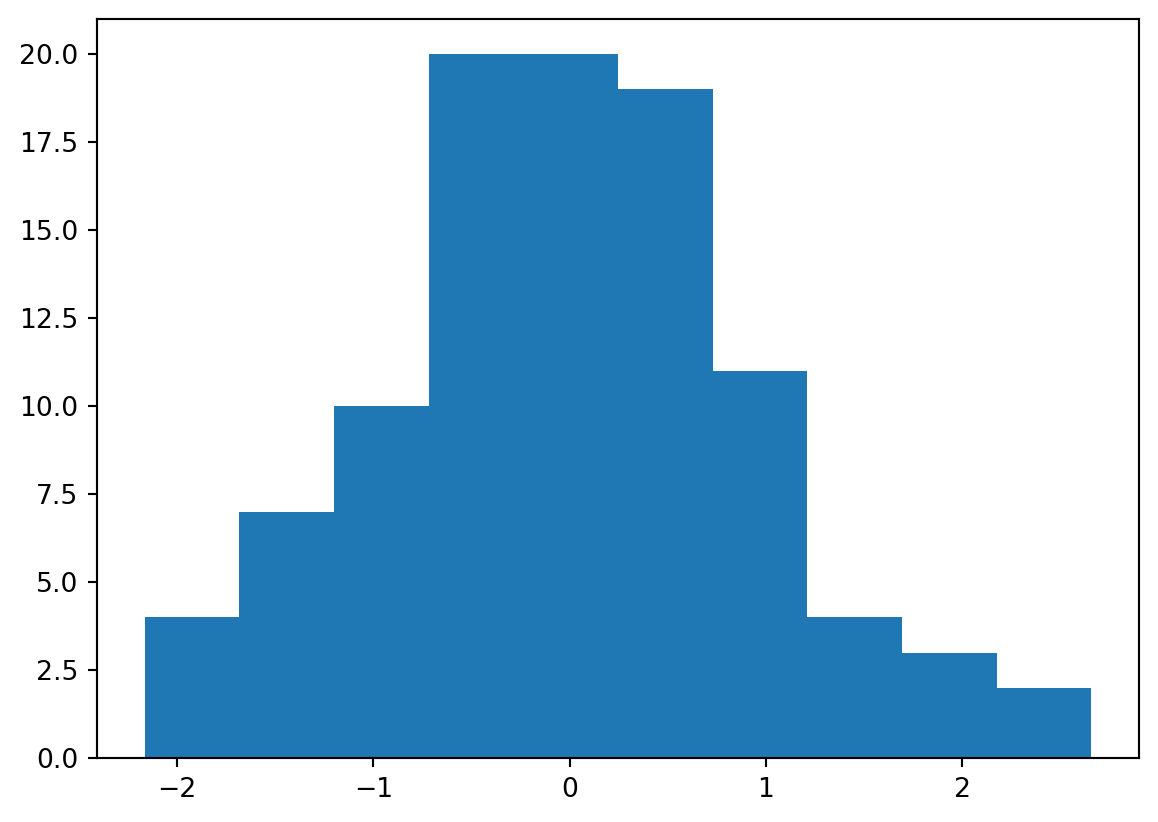
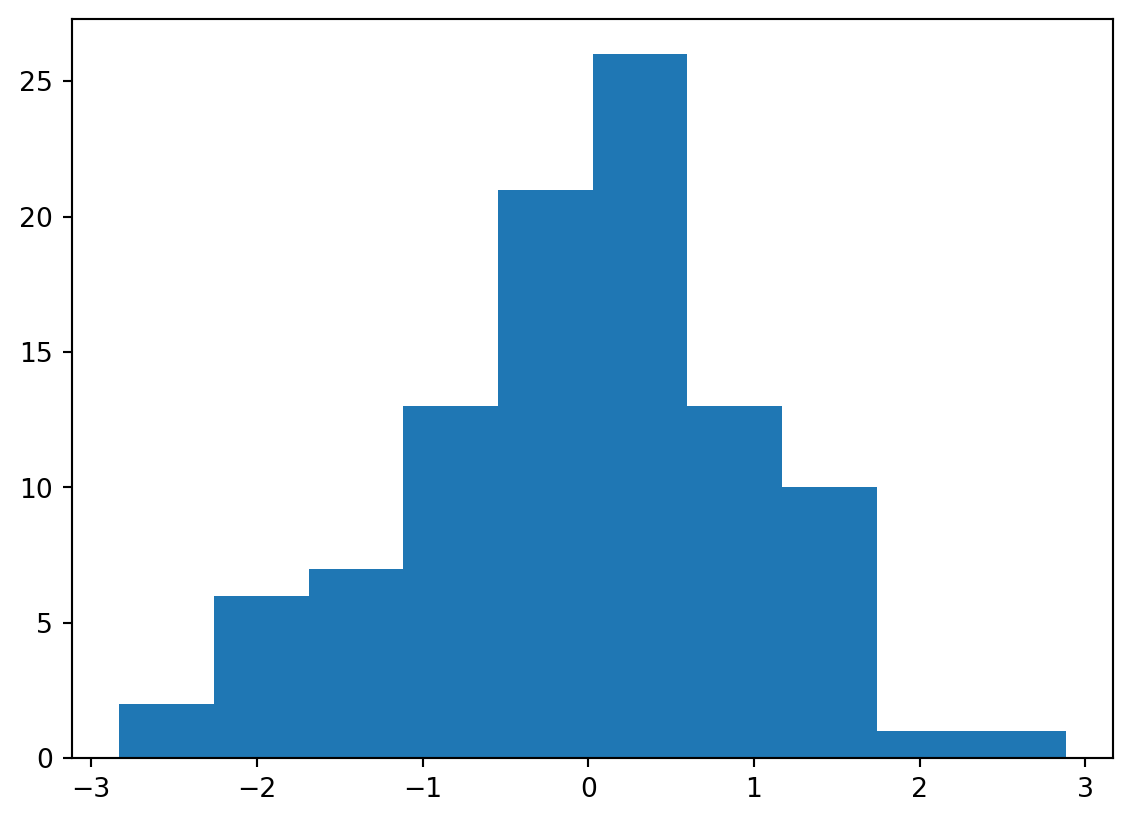
Built site for gh-pages

diff --git a/units/unit1.html b/units/unit1.html
@@ -195,7 +195,7 @@ window.Quarto = {
 <p>This is an example of using qmd as the source document.</p>
 <section id="evaluated-python-code-chunk-with-a-plot" class="level2">
 <h2 class="anchored" data-anchor-id="evaluated-python-code-chunk-with-a-plot">Evaluated Python code chunk, with a plot</h2>
-<div id="264bc987" class="cell" data-execution_count="1">
+<div id="bc82284e" class="cell" data-execution_count="1">
 <details open="" class="code-fold">
 <summary>Code</summary>
 <div class="code-copy-outer-scaffold"><div class="sourceCode cell-code" id="cb1"><pre class="sourceCode python code-with-copy"><code class="sourceCode python"><span id="cb1-1"><a href="#cb1-1" aria-hidden="true" tabindex="-1"></a><span class="im">import</span> numpy <span class="im">as</span> np</span>
@@ -208,12 +208,12 @@ window.Quarto = {
 <div class="cell-output cell-output-display">
 <div>
 <figure class="figure">
-<p><img src="unit1_files/figure-html/cell-2-output-1.png" width="579" height="411" class="figure-img"></p>
+<p><img src="unit1_files/figure-html/cell-2-output-1.png" width="566" height="411" class="figure-img"></p>
 </figure>
 </div>
 </div>
 <div class="cell-output cell-output-display" data-execution_count="1">
-<pre><code>np.float64(-0.0020656155281390666)</code></pre>
+<pre><code>np.float64(-0.04920170517001513)</code></pre>
 </div>
 </div>
 </section>
@@ -266,7 +266,7 @@ window.Quarto = {
 </div>
 <div id="tabset-1-2" class="tab-pane" role="tabpanel" aria-labelledby="tabset-1-2-tab">
 <p>This code is executed.</p>
-<div id="9dc09c7b" class="cell" data-execution_count="2">
+<div id="38b55efb" class="cell" data-execution_count="2">
 <details open="" class="code-fold">
 <summary>Code</summary>
 <div class="code-copy-outer-scaffold"><div class="sourceCode cell-code" id="cb4"><pre class="sourceCode python code-with-copy"><code class="sourceCode python"><span id="cb4-1"><a href="#cb4-1" aria-hidden="true" tabindex="-1"></a><span class="kw">def</span> fizz_buzz(num):</span>

diff --git a/units/unit3.html b/units/unit3.html
@@ -197,7 +197,7 @@ $$
 <p>This is an example of using qmd as the source document with pdf as one target. I’ve taken out the qmd stuff that doesn’t seem to render to pdf.</p>
 <section id="evaluated-python-code-chunk-with-a-plot" class="level2">
 <h2 class="anchored" data-anchor-id="evaluated-python-code-chunk-with-a-plot">Evaluated Python code chunk, with a plot</h2>
-<div id="e9f725c7" class="cell" data-execution_count="1">
+<div id="8e075371" class="cell" data-execution_count="1">
 <details open="" class="code-fold">
 <summary>Code</summary>
 <div class="code-copy-outer-scaffold"><div class="sourceCode cell-code" id="cb1"><pre class="sourceCode python code-with-copy"><code class="sourceCode python"><span id="cb1-1"><a href="#cb1-1" aria-hidden="true" tabindex="-1"></a><span class="im">import</span> numpy <span class="im">as</span> np</span>
@@ -210,12 +210,12 @@ $$
 <div class="cell-output cell-output-display">
 <div>
 <figure class="figure">
-<p><img src="unit3_files/figure-html/cell-2-output-1.png" width="579" height="411" class="figure-img"></p>
+<p><img src="unit3_files/figure-html/cell-2-output-1.png" width="566" height="411" class="figure-img"></p>
 </figure>
 </div>
 </div>
 <div class="cell-output cell-output-display" data-execution_count="1">
-<pre><code>np.float64(-0.022927851504792998)</code></pre>
+<pre><code>np.float64(-0.0755611222987154)</code></pre>
 </div>
 </div>
 </section>

diff --git a/index.html b/index.html
@@ -1091,7 +1091,7 @@ window.Quarto = {
 
            <tr>
            
-           <td><strong class="label label-Reading">Reading 31</strong> <a href="./freedman_bootstrap.pdf" target="_blank">Freedman Bootstrp</a></td>
+           <td><strong class="label label-Reading">Reading 31</strong> <a href="./freedman_bootstrap.pdf" target="_blank">Freedman Bootstrap</a></td>
            
                 <td></td>
            
